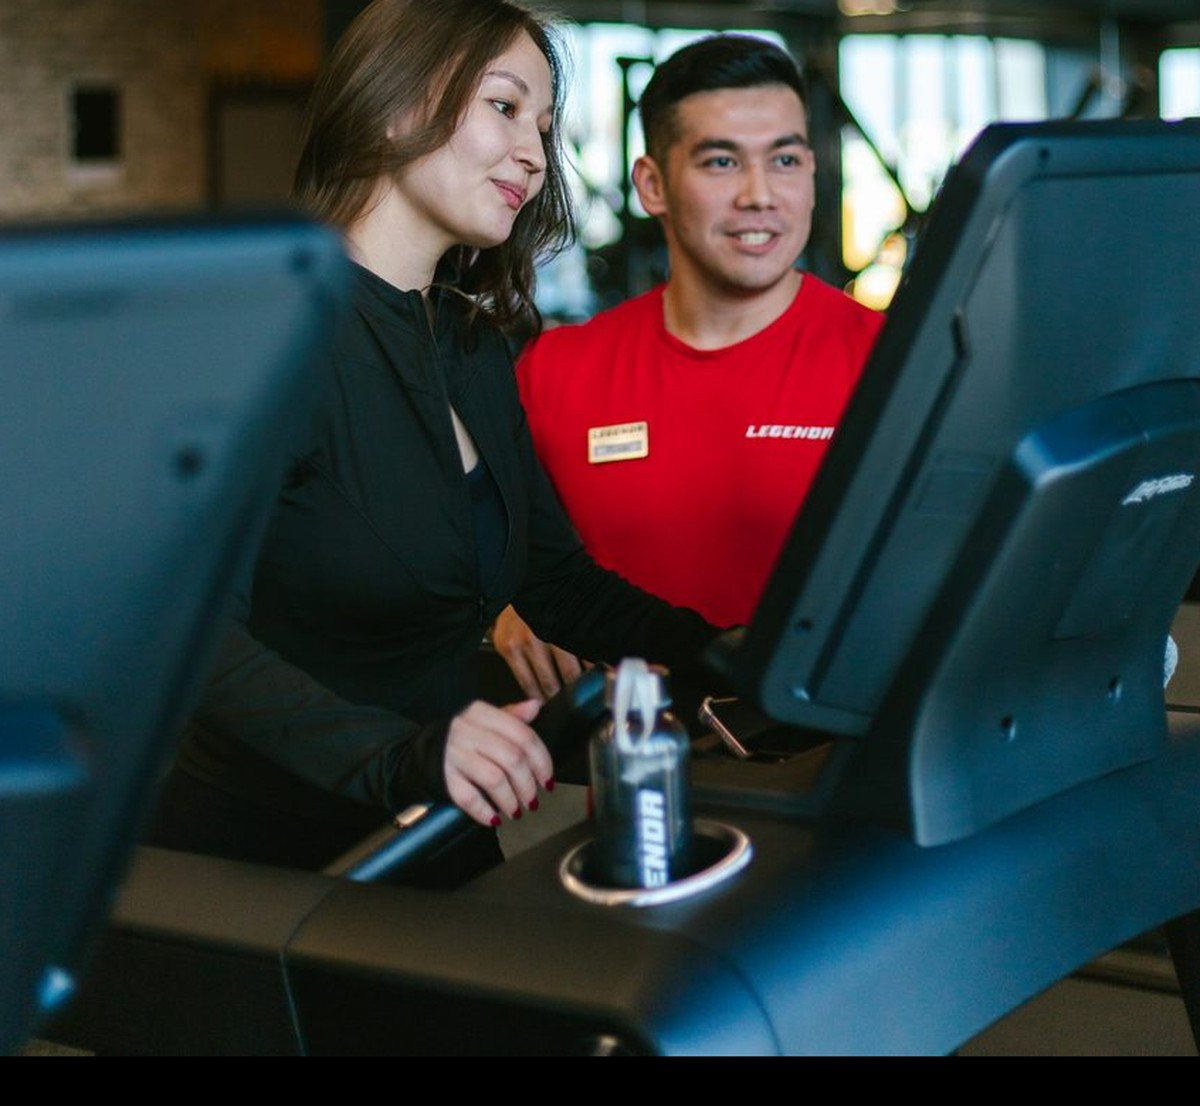
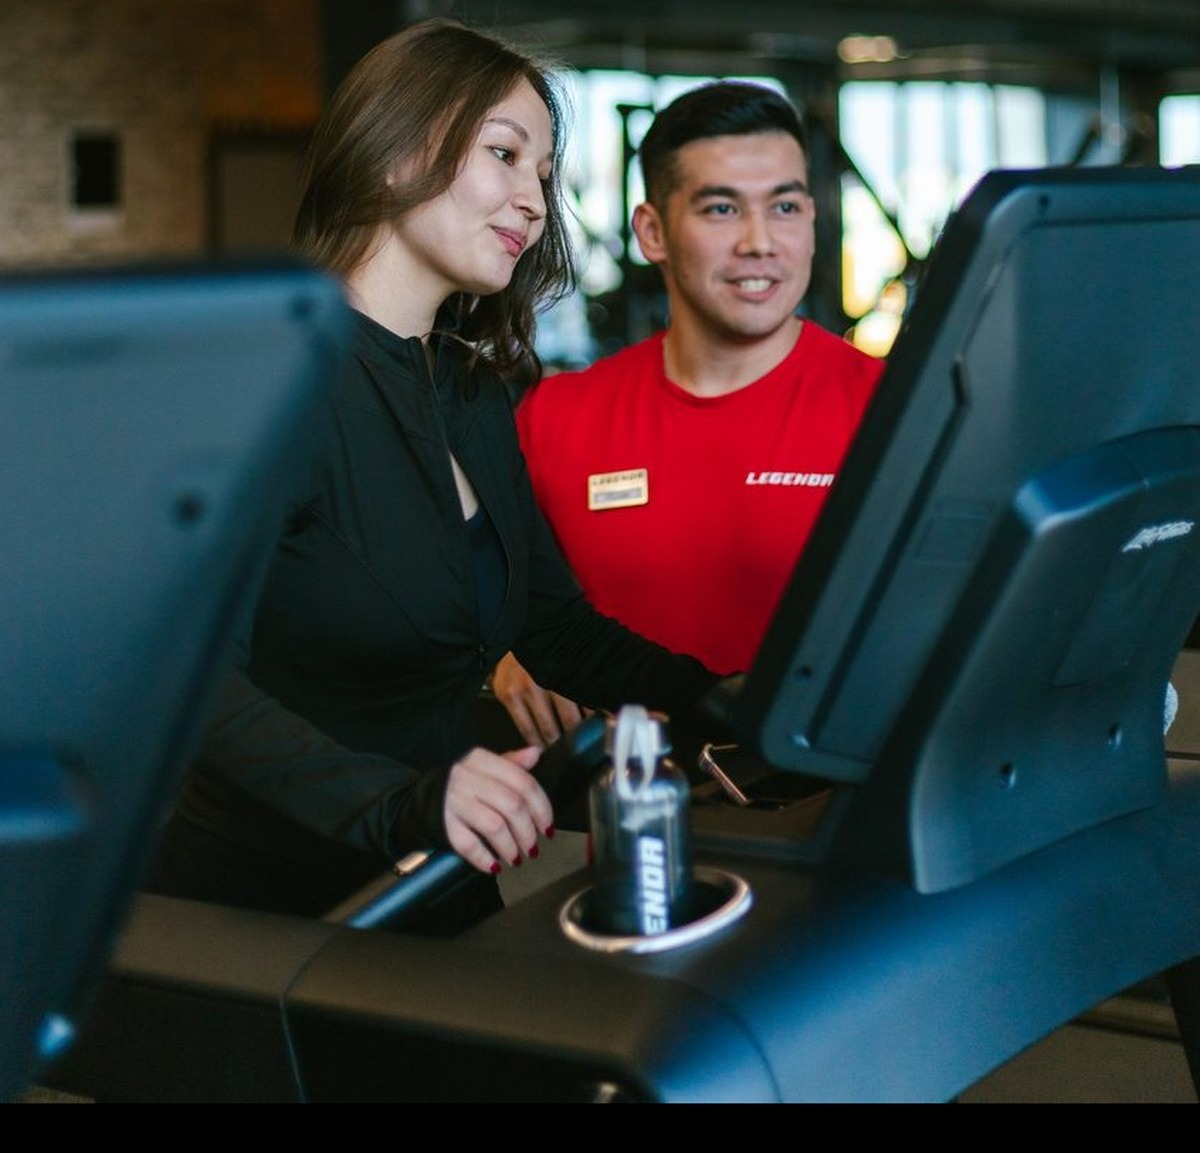
Слегка удлинить hero вверх над головой
Добавлен небольшой запас над головой к hero.jpg (без возврата к прежнему высокому кропу) и чуть поднят object-position.

diff --git a/styles.css b/styles.css
@@ -215,8 +215,8 @@ button {
   height: 100%;
   min-height: 620px;
   object-fit: cover;
-  /* Cropped to the mark under the header; full head kept */
-  object-position: center 38%;
+  /* Slight upward lengthen vs mark crop; full head kept */
+  object-position: center 34%;
 }
 
 .hero__shade {
@@ -1145,7 +1145,7 @@ button {
     height: 100%;
     min-height: 0;
     object-fit: cover;
-    object-position: center 36%;
+    object-position: center 33%;
   }
 
   .hero__shade {
